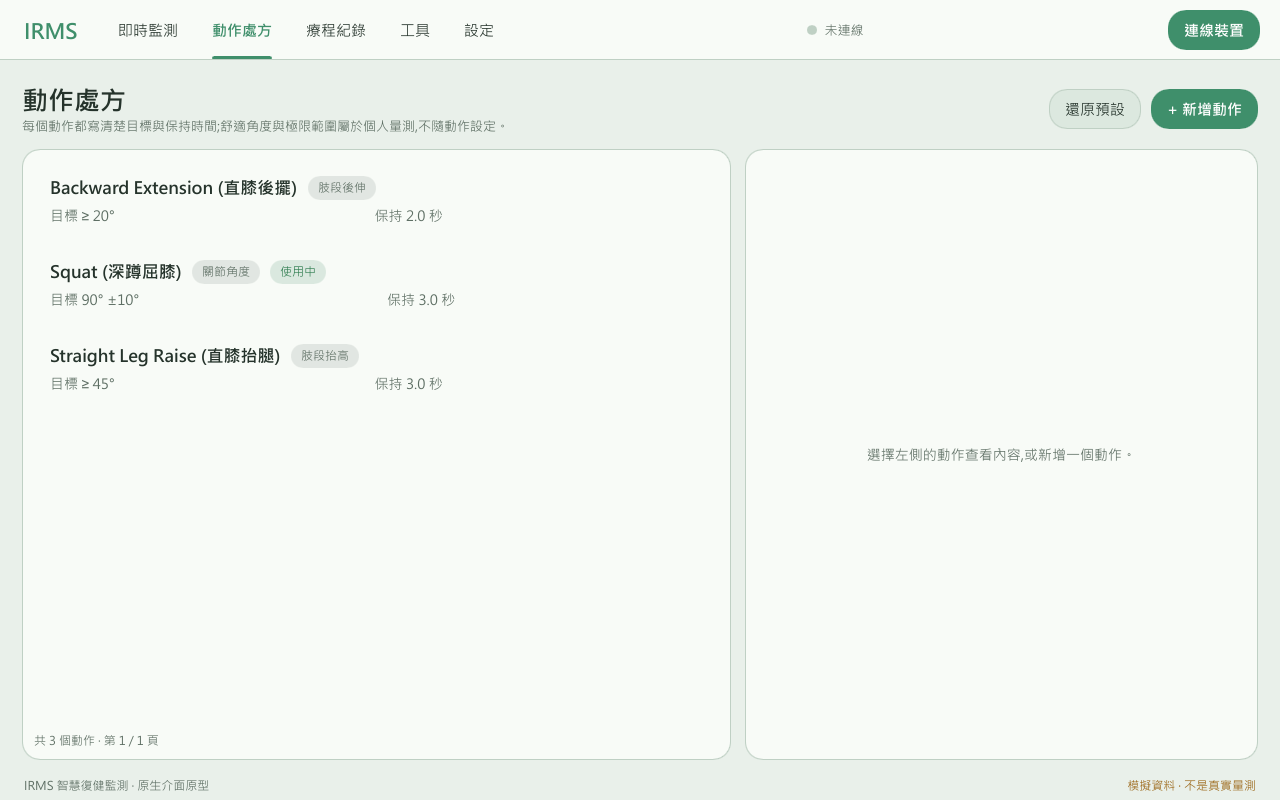
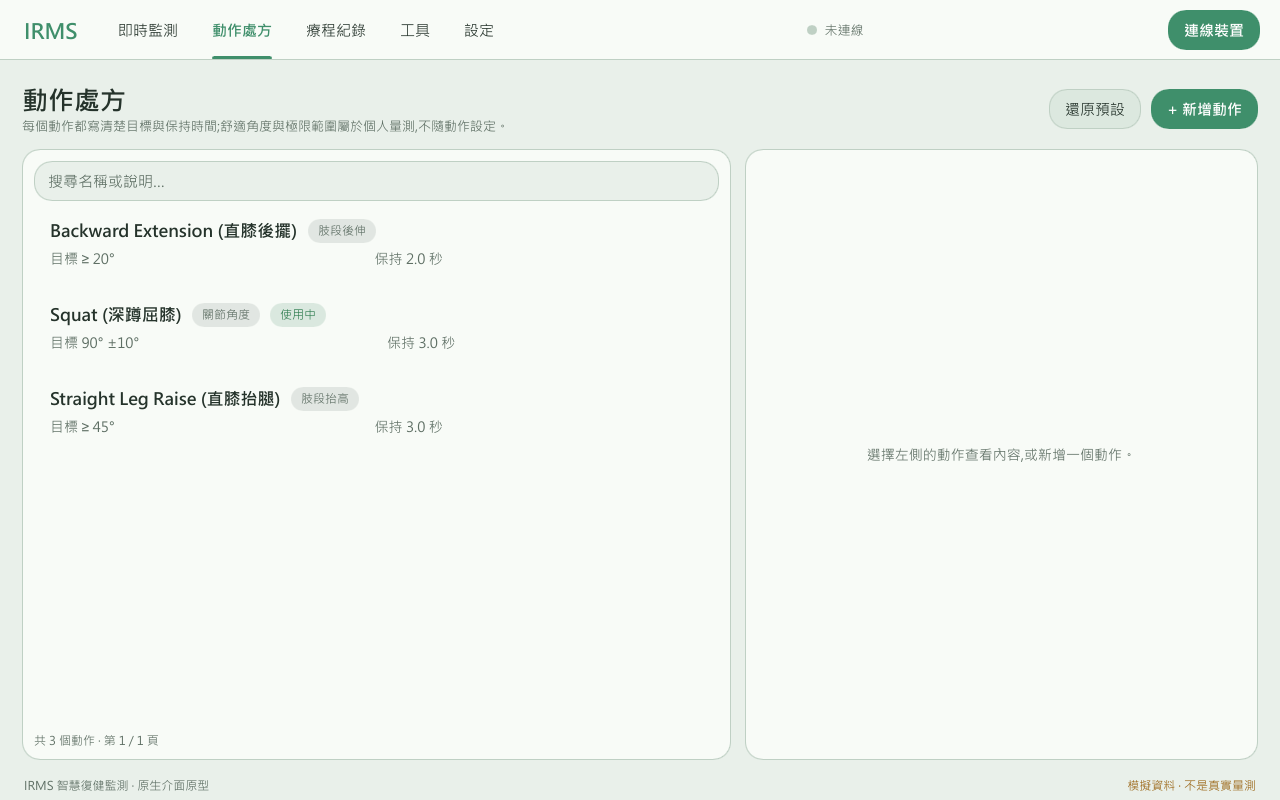
Add search, history paging and a projected 3D pose candidate to the prototype

diff --git a/IRMS_App_Native/src/main.rs b/IRMS_App_Native/src/main.rs
@@ -67,6 +67,44 @@ fn sim_angle(t: f64) -> f64 {
     base + 0.8 * (t * 37.0).sin() + 1.2 * (t * 2.3).sin()
 }
 
+/// Three-quarter projection of a point (x forward, y up, z sideways, in leg-length units) to the stage.
+fn project(x: f64, y: f64, z: f64) -> (f64, f64) {
+    let (yaw, pitch) = (35f64.to_radians(), 18f64.to_radians());
+    let xr = x * yaw.cos() + z * yaw.sin();
+    let zr = -x * yaw.sin() + z * yaw.cos();
+    let yr = y * pitch.cos() - zr * pitch.sin();
+    let depth = 1.0 / (1.0 + 0.12 * (zr * pitch.cos() + y * pitch.sin()));
+    (150.0 + xr * 95.0 * depth, 250.0 - yr * 95.0 * depth)
+}
+
+fn limb3d_path(knee_deg: f64) -> String {
+    let r = knee_deg.to_radians();
+    let hip = (0.0, 2.1);
+    let knee = (0.0, 1.05);
+    let ankle = (knee.0 - 1.05 * r.sin(), knee.1 - 1.05 * r.cos());
+    let toe = (ankle.0 + 0.32 * r.cos(), ankle.1 - 0.32 * r.sin());
+    let mut s = String::new();
+    // pelvis bar across z, then the leg in the sagittal plane at z = 0.25
+    let (ax, ay) = project(hip.0, hip.1, -0.25);
+    let _ = write!(s, "M {ax:.1} {ay:.1} ");
+    for (x, y) in [hip, knee, ankle, toe] {
+        let (px, py) = project(x, y, 0.25);
+        let _ = write!(s, "L {px:.1} {py:.1} ");
+    }
+    s
+}
+
+fn grid3d_path() -> String {
+    let mut s = String::new();
+    for i in -3..=3 {
+        let v = i as f64 * 0.5;
+        let (a, b) = (project(v, 0.0, -1.5), project(v, 0.0, 1.5));
+        let (c, d) = (project(-1.5, 0.0, v), project(1.5, 0.0, v));
+        let _ = write!(s, "M {:.1} {:.1} L {:.1} {:.1} M {:.1} {:.1} L {:.1} {:.1} ", a.0, a.1, b.0, b.1, c.0, c.1, d.0, d.1);
+    }
+    s
+}
+
 fn arg_value(args: &[String], name: &str) -> Option<String> {
     args.iter().position(|a| a == name).and_then(|i| args.get(i + 1).cloned())
 }
@@ -78,7 +116,8 @@ fn main() -> Result<(), slint::PlatformError> {
     let theme = ui.global::<Theme>();
 
     // Prototype switches, mainly for snapshots: --style N, --night, --view N, --settings-tab N,
-    // --connected, --calibrated, --run, --wizard, --seed-history, --log, --snapshot <png>.
+    // --connected, --calibrated, --run, --wizard, --pose N, --search <text>, --seed-history, --log,
+    // --snapshot <png>.
     let args: Vec<String> = std::env::args().collect();
     let has = |n: &str| args.iter().any(|a| a == n);
     let int = |n: &str| arg_value(&args, n).and_then(|v| v.parse::<i32>().ok());
@@ -95,6 +134,46 @@ fn main() -> Result<(), slint::PlatformError> {
     }
     app.set_calibrated(has("--calibrated") || autorun);
     app.set_wizard_open(has("--wizard"));
+    app.set_pose_view(int("--pose").unwrap_or(0).clamp(0, 2));
+    live.set_grid3d_path(grid3d_path().into());
+
+    // Prescriptions (built-in defaults of the shipping app); `shown` follows the search box.
+    let actions = Rc::new(VecModel::from(
+        [
+            ("Backward Extension (直膝後擺)", "肢段後伸", "≥ 20°", "2.0 秒", "站姿,膝蓋伸直向後擺腿。"),
+            ("Squat (深蹲屈膝)", "關節角度", "90° ±10°", "3.0 秒", "雙腳與肩同寬,緩慢下蹲到目標角度後保持。"),
+            ("Straight Leg Raise (直膝抬腿)", "肢段抬高", "≥ 45°", "3.0 秒", "仰臥,膝蓋伸直抬腿到目標高度後保持。"),
+        ]
+        .map(|(name, kind, target, hold, note)| ActionItem {
+            name: name.into(),
+            kind: kind.into(),
+            target: target.into(),
+            hold: hold.into(),
+            note: note.into(),
+            shown: true,
+        })
+        .to_vec(),
+    ));
+    app.set_actions(ModelRc::from(actions.clone()));
+    {
+        let actions = actions.clone();
+        app.on_search_edited(move |q| {
+            let q = q.trim().to_lowercase();
+            for i in 0..actions.row_count() {
+                if let Some(mut a) = actions.row_data(i) {
+                    a.shown = q.is_empty()
+                        || a.name.to_lowercase().contains(&q)
+                        || a.kind.contains(q.as_str())
+                        || a.note.contains(q.as_str());
+                    actions.set_row_data(i, a);
+                }
+            }
+        });
+    }
+    if let Some(q) = arg_value(&args, "--search") {
+        app.set_search(q.clone().into());
+        app.invoke_search_edited(q.into());
+    }
 
     let sessions = Rc::new(VecModel::<SessionRow>::default());
     if has("--seed-history") {
@@ -102,6 +181,13 @@ fn main() -> Result<(), slint::PlatformError> {
             ("2026/11/16 上午 11:07", "Squat (深蹲屈膝)", 82, "10:54"),
             ("2026/11/15 下午 08:30", "Straight Leg Raise (直膝抬腿)", 24, "06:12"),
             ("2026/11/14 下午 07:45", "Squat (深蹲屈膝)", 30, "05:40"),
+            ("2026/11/13 下午 08:10", "Backward Extension (直膝後擺)", 18, "04:05"),
+            ("2026/11/12 下午 07:50", "Squat (深蹲屈膝)", 28, "05:31"),
+            ("2026/11/11 下午 08:20", "Straight Leg Raise (直膝抬腿)", 22, "05:58"),
+            ("2026/11/10 下午 07:40", "Squat (深蹲屈膝)", 26, "05:12"),
+            ("2026/11/09 下午 08:05", "Squat (深蹲屈膝)", 25, "05:03"),
+            ("2026/11/08 上午 10:15", "Backward Extension (直膝後擺)", 16, "03:48"),
+            ("2026/11/07 下午 07:55", "Squat (深蹲屈膝)", 24, "04:57"),
         ] {
             sessions.push(SessionRow {
                 started: started.into(),
@@ -286,6 +372,7 @@ fn main() -> Result<(), slint::PlatformError> {
         // Only the live screen draws the pose and the trend; skip the path strings elsewhere.
         if connected && app.get_view() == 0 {
             live.set_limb_path(limb_path(angle).into());
+            live.set_limb3d_path(limb3d_path(angle).into());
             live.set_chart_path(chart_path(&s.buf, live.get_chart_w() as f64, live.get_chart_h() as f64).into());
         }
 

diff --git a/doc/coding log/log_20261116_rust_native_phase2_screens.md b/doc/coding log/log_20261116_rust_native_phase2_screens.md
@@ -33,15 +33,32 @@ connected and calibrated, 2D pose by default, personal range has no default valu
 - Resource use with all screens compiled in (session running, 15 s): software renderer 25.8 MB working set,
   8.6 MB private, 5.2 % of one core; GL renderer 76.4 MB, 107.8 MB, 7.2 %.
 
+## Second pass (same day)
+
+Added: search field on the prescription list (filtering in Rust), history paging (previous / next, eight
+rows per page), and a 3D candidate for gate G2: the leg projected in a three-quarter view on a ground grid,
+drawn with the same `Path` element, no 3D engine. It is a drawing, not a rotatable model.
+
+Checked with real mouse and injected keyboard input on the software renderer:
+- Typing Chinese text into the search field filters the list (characters sent as Unicode key events).
+- Picking a prescription shows its detail; recording the comfort angle in tools stores the live value;
+  history next page shows rows 9 and 10 of ten.
+
+Phase 0 number that was owed: the Tauri installer `IRMS.Dashboard_1.2.0-beta.25_x64-setup.exe` is 3.97 MB
+(it relies on the WebView2 runtime already on the machine). The native executable is 9.7 MB and compresses to 4.1 MB with LZMA, so an
+installer would be about the same size as today's, without needing WebView2.
+
 ## Not done or not checked
 
-- Not click-tested: prescription detail, history review and delete, tools recording buttons, settings
-  switches, disconnect during a session. They compile and render; behaviour is unverified.
+- Not click-tested: history review and delete, "use for live monitoring", settings switches, the limit
+  button and clear in tools, disconnect during a session. They compile and render; behaviour is unverified.
 - Placeholders with no behaviour: add / edit / restore prescription, firmware and software update, live
-  share, 3D pose (gate G2), history analysis (review shows a one-line summary only).
-- Text input (search, numeric fields) and the Chinese input method (rest of gate G3) are not in the prototype.
-- History paging shows page one only; previous / next are not built.
+  share, history analysis (review shows a one-line summary only).
+- Chinese input method composition (candidate window, commit) is still untested: injected Unicode key
+  events bypass the input method. Needs a person typing with 注音 or 倉頡. Numeric fields are not built.
+- Gate G2 is the owner's call between the 2D view and the projected drawing; a true 3D model is not built.
 - Only Traditional Chinese strings, hard-coded; no translation layer yet.
+- Cold start to first painted frame is still unmeasured on both apps.
 - The owner has not clicked through the prototype; phase 2 is "done" only when they have.
 
 ## Run it
@@ -53,4 +70,4 @@ set SLINT_BACKEND=winit-software       # software renderer (lower memory)
 ```
 
 Flags: `--style N`, `--night`, `--view N`, `--settings-tab N`, `--connected`, `--calibrated`, `--run`,
-`--wizard`, `--seed-history`, `--log`, `--snapshot <png>`.
+`--wizard`, `--pose N`, `--search <text>`, `--seed-history`, `--log`, `--snapshot <png>`.
